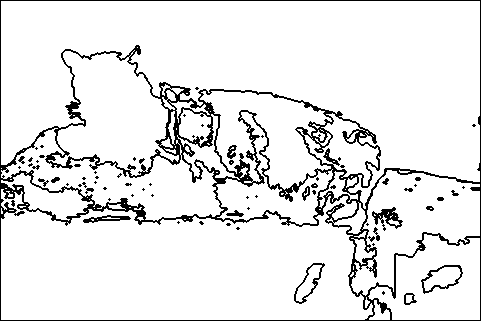
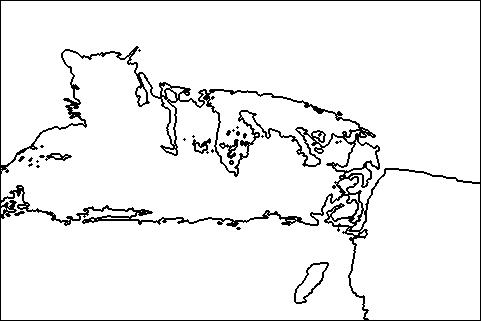
removed som calculations

diff --git a/moea/src/main/java/moea/GA.java b/moea/src/main/java/moea/GA.java
@@ -390,11 +390,14 @@ public class GA {
             segment.addPixel(p);
         }
         temp.findEdgePixels();
+
+        this.mutateNijaturtles(temp);
+        this.mergeClosestSegments(temp);
+
+        temp.findEdgePixels();
         temp.calculateOverallDeviation();
         temp.calculateEdgeValue();
         temp.fitness = temp.calculateFitness();
-        this.mutateNijaturtles(temp);
-        this.mergeClosestSegments(temp);
 
         return temp;
     }
@@ -449,9 +452,6 @@ public class GA {
             s1.addAllPixels(s2.pixels);
             c.segments.remove(s2);
             c.findEdgePixels();
-            c.calculateOverallDeviation();
-            c.calculateEdgeValue();
-            c.calculateFitness();
         }
     }
 
@@ -479,15 +479,12 @@ public class GA {
         }
 
         c.findEdgePixels();
-        c.calculateEdgeValue();
-        c.calculateOverallDeviation();
-        c.fitness = c.calculateFitness();
 
     }
 
     public static void main(String[] args) {
         GA g = new GA();
-        g.run(false,3, 8, 1, 10, 11, new double[] {0.5,0.5}, 150, true);
+        g.run(false,3, 8, 2, 5, 8, new double[] {0.5,0.5}, 150, true);
     }
 
 }
